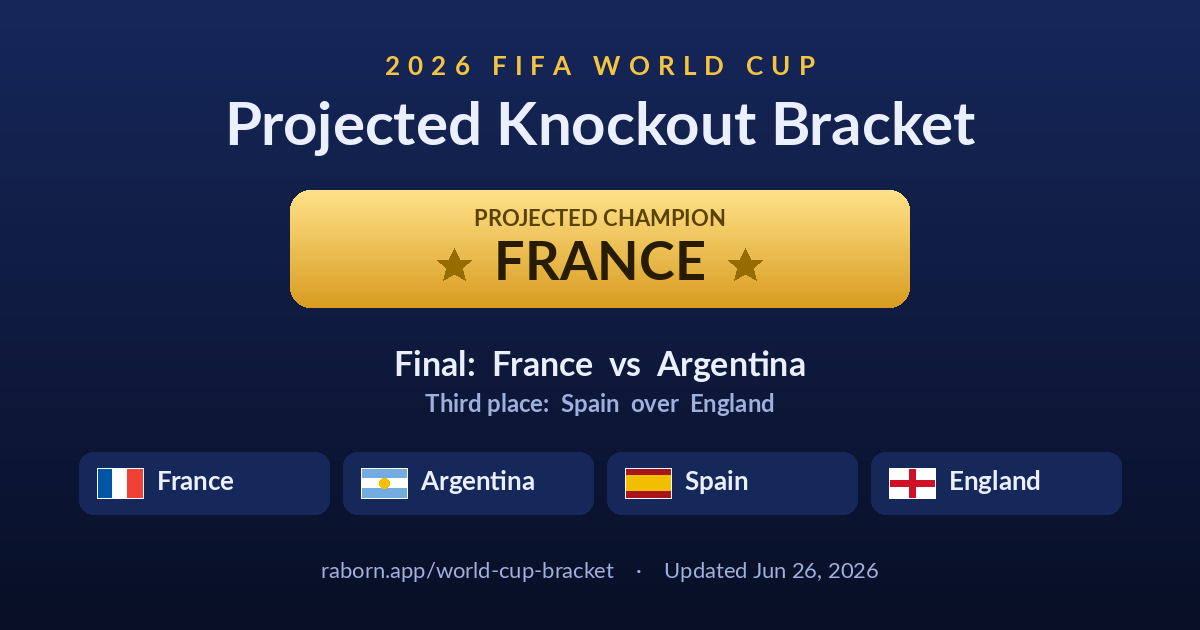
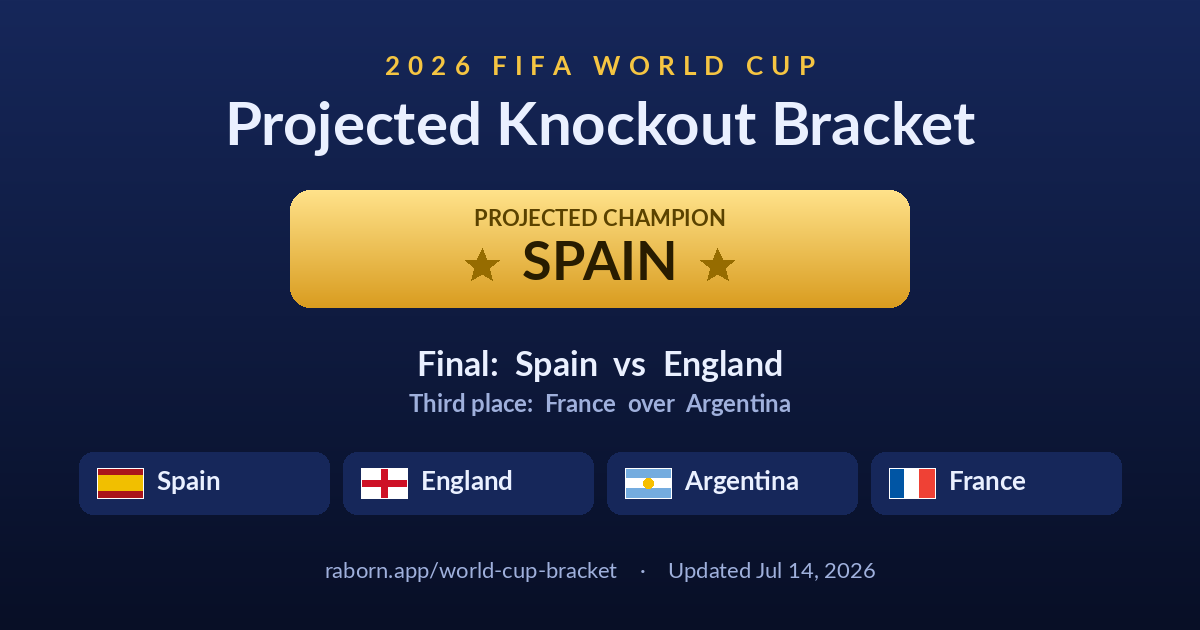
Update bracket: QFs + Spain stun France; Spain projected champ, new og image

diff --git a/world-cup-bracket/index.html b/world-cup-bracket/index.html
@@ -107,8 +107,8 @@
 <header>
   <h1>🏆 2026 World Cup — Projected Knockout Bracket</h1>
   <div class="sub">
-    Updated <strong>July 7, 2026</strong> — <strong>Round of 16 complete; the final eight are set.</strong> Quarterfinals: France–Morocco, Spain–Belgium, Norway–England, Argentina–Switzerland (Swiss through on penalties over Colombia). All results locked (✓ / <span class="ft">FT</span>).
-    Every projected number is that team's <strong>gambling-implied chance to win its match and advance</strong>, from the <strong>live title odds</strong> (France +175, Spain ~+380, Argentina +450). The bracket carries the favourite forward each round.
+    Updated <strong>July 14, 2026</strong> — <strong>Spain shocked France 2–0</strong> in the semifinal, dumping out the tournament favourite and reaching the final. All quarterfinals and the first semi are locked (✓ / <span class="ft">FT</span>).
+    Remaining games use each team's <strong>gambling-implied chance to win and advance</strong>. It's wide open now: <strong>England–Argentina</strong> (Jul 15) decides Spain's final opponent, and all three of the projected champion (Spain), the England–Argentina winner, and the final are near coin-flips.
   </div>
   <div class="legend">
     <span><i class="swatch" style="background:#1fd97b"></i>Projected to advance</span>
@@ -124,7 +124,7 @@
 
 <div class="third">
   <div class="h">3rd-Place Play-off (proj.) · <span class="loc loc-warm">📍 Miami · Jul 18</span></div>
-  <div class="row"><span>🇪🇸 <span class="w">Spain</span> <span style="color:#7fe9b0">58%</span></span> <span style="color:#6f80b0">def.</span> <span>🏴 England 42%</span></div>
+  <div class="row"><span>🇫🇷 <span class="w">France</span> <span style="color:#7fe9b0">58%</span></span> <span style="color:#6f80b0">def.</span> <span>🇦🇷 Argentina 42%</span></div>
 </div>
 
 <footer>
@@ -154,8 +154,8 @@ const L16=[
  M("Portugal","Spain","Spain","M93","Dallas · Jul 6","39%","61%","0-1"),
  M("USA","Belgium","Belgium","M94","Seattle · Jul 6","56%","44%","1-4"),
 ];
-const LQF=[ M("France","Morocco","France","M97","Boston · Jul 9","76%","24%"), M("Spain","Belgium","Spain","M98","Los Angeles · Jul 10","61%","39%") ];
-const LSF=[ M("France","Spain","France","M101","Dallas · Jul 14","57%","43%") ];
+const LQF=[ M("France","Morocco","France","M97","Boston · Jul 9","76%","24%","2-0"), M("Spain","Belgium","Spain","M98","Los Angeles · Jul 10","61%","39%","2-1") ];
+const LSF=[ M("France","Spain","Spain","M101","Dallas · Jul 14","57%","43%","0-2") ];
 
 // RIGHT R32 (top->bottom)
 const R32=[
@@ -174,10 +174,10 @@ const R16=[
  M("Argentina","Egypt","Argentina","M95","Atlanta · Jul 7","89%","11%","3-2"),
  M("Switzerland","Colombia","Switzerland","M96","Vancouver · Jul 7","36%","64%","0-0","4-3"),
 ];
-const RQF=[ M("Norway","England","England","M99","Miami · Jul 11","43%","57%"), M("Argentina","Switzerland","Argentina","M100","Kansas City · Jul 11","76%","24%") ];
-const RSF=[ M("England","Argentina","Argentina","M102","Atlanta · Jul 15","44%","56%") ];
+const RQF=[ M("Norway","England","England","M99","Miami · Jul 11","43%","57%","1-2"), M("Argentina","Switzerland","Argentina","M100","Kansas City · Jul 11","76%","24%","3-1") ];
+const RSF=[ M("England","Argentina","England","M102","Atlanta · Jul 15","51%","49%") ];
 
-const FINAL=M("France","Argentina","France","M104 · FINAL","New York · Jul 19","59%","41%");
+const FINAL=M("Spain","England","Spain","M104 · FINAL","New York · Jul 19","51%","49%");
 
 function teamRow(name,win,val,isScore,actual){
   let cls = win===null ? "" : (win?"win":"lose");
@@ -209,10 +209,10 @@ function col(label,matches,finalCls){
 }
 
 const champBox = `<div class="final-wrap">
-  <div class="champ"><div class="crown">👑</div><div class="lbl">Projected Champion</div><div class="team-name">🇫🇷 France</div></div>
+  <div class="champ"><div class="crown">👑</div><div class="lbl">Projected Champion</div><div class="team-name">🇪🇸 Spain</div></div>
   <div class="round-label" style="margin:0">Final</div>
   ${matchBox(FINAL,"finalbox")}
-  <div class="round-label" style="margin-top:4px">Runner-up: 🇦🇷 Argentina</div>
+  <div class="round-label" style="margin-top:4px">Runner-up: 🏴 England</div>
 </div>`;
 
 document.getElementById("bracket").innerHTML =
